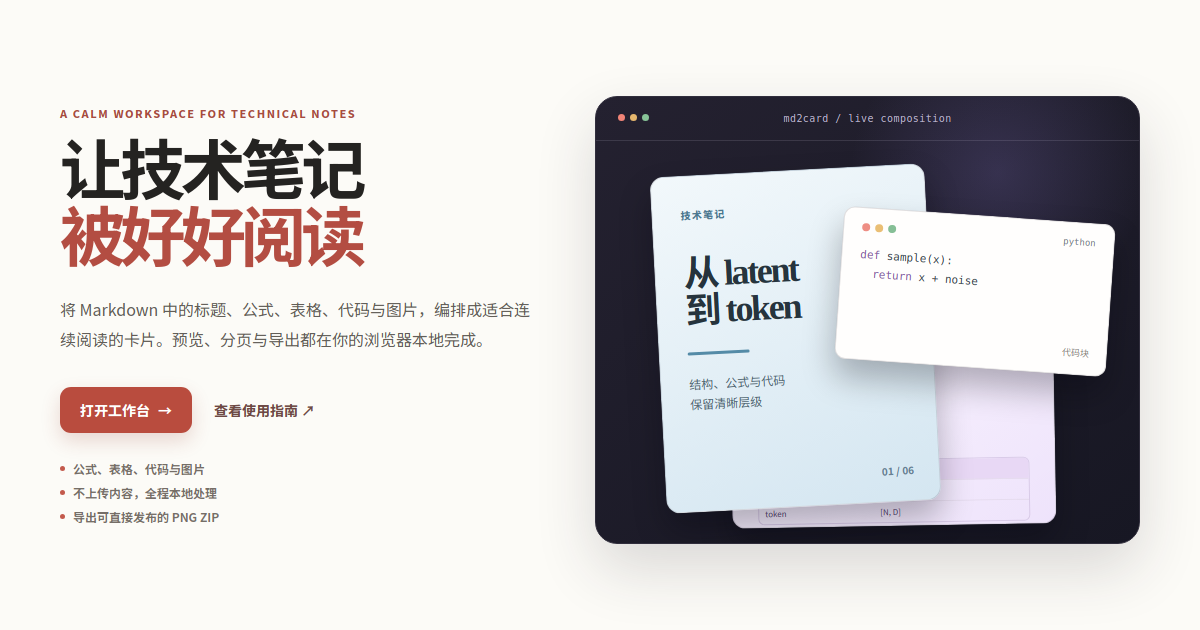
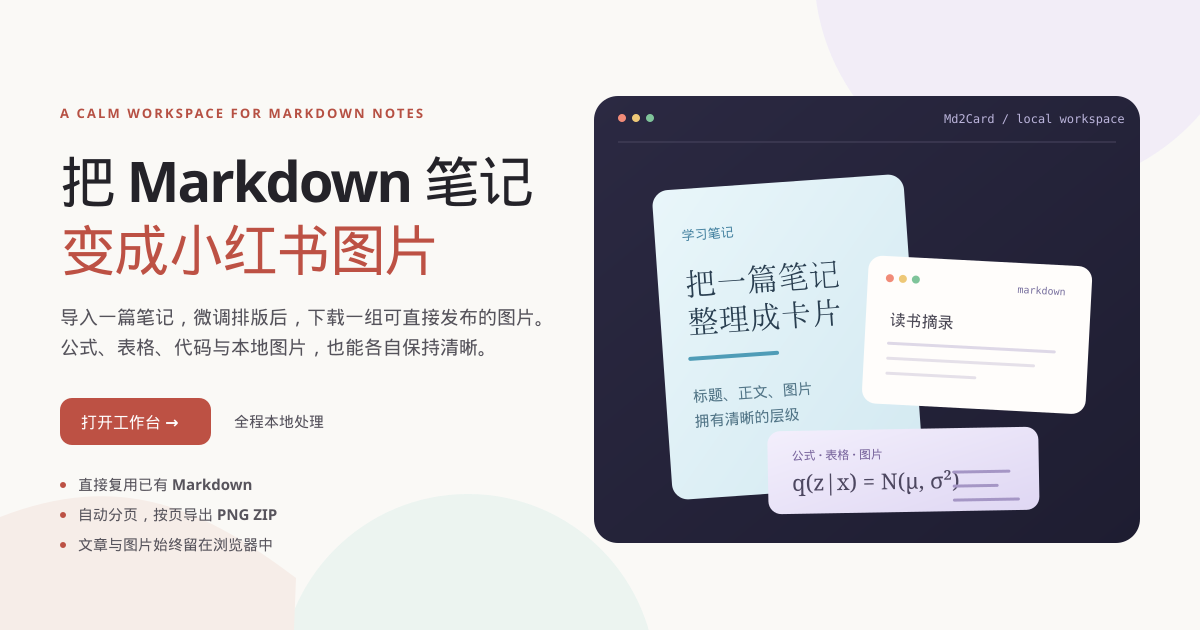
docs: align Md2Card with Xiaohongshu sharing

diff --git a/index.html b/index.html
@@ -12,32 +12,32 @@
     </script>
     <meta
       name="description"
-      content="Md2Card 是纯前端 Markdown 图片卡片工具：在浏览器本地处理公式、表格、代码和图片，实时预览后下载 PNG ZIP。"
+      content="Md2Card 是纯前端 Markdown 转小红书图片工具：将日常笔记在浏览器本地排版、预览并导出 PNG ZIP。"
     />
     <meta name="robots" content="index, follow" />
     <link rel="canonical" href="https://haodongcui.github.io/md2card/" />
     <meta property="og:type" content="website" />
     <meta property="og:locale" content="zh_CN" />
     <meta property="og:site_name" content="Md2Card" />
-    <meta property="og:title" content="Md2Card · Markdown 转图片卡片" />
+    <meta property="og:title" content="Md2Card · Markdown 转小红书图片" />
     <meta
       property="og:description"
-      content="公式、表格、代码、本地图片，全部在浏览器中完成排版与 PNG ZIP 导出。"
+      content="将日常 Markdown 笔记整理为可直接发布的小红书图片；全程在浏览器本地完成。"
     />
     <meta property="og:url" content="https://haodongcui.github.io/md2card/" />
-    <meta property="og:image" content="https://haodongcui.github.io/md2card/og-cover.png" />
+    <meta property="og:image" content="https://haodongcui.github.io/md2card/og-cover.png?v=2" />
     <meta property="og:image:width" content="1200" />
     <meta property="og:image:height" content="630" />
-    <meta property="og:image:alt" content="Md2Card 将技术 Markdown 转为图片卡片" />
+    <meta property="og:image:alt" content="Md2Card 将 Markdown 笔记转为小红书图片卡片" />
     <meta name="twitter:card" content="summary_large_image" />
-    <meta name="twitter:title" content="Md2Card · Markdown 转图片卡片" />
+    <meta name="twitter:title" content="Md2Card · Markdown 转小红书图片" />
     <meta
       name="twitter:description"
-      content="在浏览器本地将技术 Markdown 排版为图片卡片并导出 PNG ZIP。"
+      content="在浏览器本地将 Markdown 笔记排版为小红书图片并导出 PNG ZIP。"
     />
-    <meta name="twitter:image" content="https://haodongcui.github.io/md2card/og-cover.png" />
+    <meta name="twitter:image" content="https://haodongcui.github.io/md2card/og-cover.png?v=2" />
     <link rel="icon" href="./favicon.svg" type="image/svg+xml" />
-    <title>Md2Card · Markdown 转图片卡片</title>
+    <title>Md2Card · Markdown 转小红书图片</title>
   </head>
   <body>
     <a class="skip-link" href="#main-content">跳到主要内容</a>
@@ -69,27 +69,27 @@
     <main id="main-content">
       <section class="hero-section">
         <div class="hero-copy">
-          <p class="site-eyebrow">A CALM WORKSPACE FOR TECHNICAL NOTES</p>
-          <h1>让技术笔记<br /><span>被好好阅读</span></h1>
+          <p class="site-eyebrow">A CALM WORKSPACE FOR MARKDOWN NOTES</p>
+          <h1>把 Markdown 笔记<br /><span>变成小红书图片</span></h1>
           <p class="hero-lead">
-            将 Markdown 中的标题、公式、表格、代码与图片，编排成适合连续阅读的卡片。预览、分页与导出都在你的浏览器本地完成。
+            把平时写好的学习笔记、读书摘录、课程总结或知识整理，编排成适合连续阅读的卡片。预览、分页与导出都在你的浏览器本地完成。
           </p>
           <div class="hero-actions">
             <a class="site-button" href="./app/">打开工作台 <span aria-hidden="true">→</span></a>
             <a class="site-text-link" href="#details">了解处理细节 <span aria-hidden="true">↓</span></a>
           </div>
           <ul class="hero-proof" aria-label="产品特点">
-            <li>公式、表格、代码与图片</li>
+            <li>直接复用已有 Markdown</li>
             <li>不上传内容，全程本地处理</li>
             <li>导出可直接发布的 PNG ZIP</li>
           </ul>
         </div>
         <div class="hero-art" aria-hidden="true">
           <article class="showcase-card showcase-card-primary">
-            <span class="showcase-kicker">技术笔记</span>
+            <span class="showcase-kicker">Markdown 笔记</span>
             <strong>从 latent<br />到 token</strong>
             <i></i>
-            <p>结构、公式与代码<br />保留清晰层级</p>
+            <p>标题、图片与公式<br />保留清晰层级</p>
             <small>01 / 06</small>
           </article>
           <article class="showcase-card showcase-card-code">
@@ -110,20 +110,20 @@
       <section class="trust-strip" aria-label="核心承诺">
         <p><strong>本地完成</strong><span>文章与图片始终留在浏览器中</span></p>
         <p><strong>所见即所得</strong><span>预览、测量与导出共用同一套版式</span></p>
-        <p><strong>为技术内容而设</strong><span>从长公式到宽表格都有合适的收纳方式</span></p>
+        <p><strong>为 Markdown 笔记而设</strong><span>从普通段落到长公式都有合适的收纳方式</span></p>
       </section>
 
       <section id="features" class="content-section feature-section">
         <div class="section-heading">
-          <p class="site-eyebrow">BUILT FOR TECHNICAL NOTES</p>
-          <h2>不是把文章切碎，而是重新组织它的阅读节奏</h2>
-          <p>每一种内容都有相应的排版规则；你可以从默认版式开始，也能在需要时细调。</p>
+          <p class="site-eyebrow">BUILT FOR MARKDOWN NOTES</p>
+          <h2>不必为了分享，再把笔记重新排一遍</h2>
+          <p>已有的 Markdown 可以直接复用；不同内容各有合适的排版规则，也可以在需要时细调。</p>
         </div>
         <div class="feature-grid">
           <article class="feature-card feature-card-blue">
             <span class="feature-icon">∑</span>
-            <h3>内容不被降级</h3>
-            <p>标题、列表、KaTeX 公式、GFM 表格、代码与引用各自渲染；过高的技术块会续页，而不是被悄悄裁掉。</p>
+            <h3>原有格式不必重做</h3>
+            <p>标题、列表、公式、表格、代码、引用和图片各自渲染；内容过高时会续页，而不是被悄悄裁掉。</p>
           </article>
           <article class="feature-card feature-card-lilac">
             <span class="feature-icon">&lt;/&gt;</span>
@@ -133,7 +133,7 @@
           <article class="feature-card feature-card-green">
             <span class="feature-icon">▧</span>
             <h3>成品由你决定</h3>
-            <p>画布比例、主题、封面、密度、标题与技术块均可调整。确认预览后，直接下载标准或高清 PNG ZIP。</p>
+            <p>画布比例、主题、封面、密度、标题与复杂内容均可调整。确认预览后，直接下载标准或高清 PNG ZIP。</p>
           </article>
         </div>
       </section>
@@ -141,7 +141,7 @@
       <section class="content-section workflow-section">
         <div class="section-heading">
           <p class="site-eyebrow">THREE STEPS</p>
-          <h2>从一篇笔记，到一组可以发布的卡片</h2>
+          <h2>从一篇 Markdown 笔记，到一组可发布的小红书图片</h2>
         </div>
         <ol class="workflow-list">
           <li>
@@ -177,7 +177,7 @@
         <div class="section-heading">
           <p class="site-eyebrow">THE DETAILS THAT MATTER</p>
           <h2>难处理的部分，也应该有明确的处理方式</h2>
-          <p>Md2Card 不把“导入、分页、导出”当成黑箱。下面是它为技术 Markdown 做出的具体取舍。</p>
+          <p>Md2Card 不把“导入、分页、导出”当成黑箱。下面是它为 Markdown 笔记做出的具体取舍。</p>
         </div>
         <div class="detail-grid">
           <article class="detail-card detail-card-wide">
@@ -196,7 +196,7 @@
             <p>页面根据真实 DOM 高度测量。标题会带着必要的上下文移动；表格按行续页并重复表头，代码按行续页，图片与图注保持完整。</p>
           </article>
           <article class="detail-card">
-            <span class="detail-number">03 / 技术内容</span>
+            <span class="detail-number">03 / 复杂内容</span>
             <h3>宽表与长公式可单独调整</h3>
             <p>表格字号、公式缩放、代码字号不影响普通正文。H2、H3、H4 各自拥有页尾安全区，避免标题卡在页面底部。</p>
           </article>
@@ -224,14 +224,14 @@
         </div>
         <div class="home-faq-list">
           <details open><summary>为什么单独导入 .md 后还要选择图片所在文件夹？</summary><p>浏览器不能获得电脑上该文件的父目录权限。这是安全限制。选择一次文章根目录或 <code>assets</code> 后，应用才能按 Markdown 的路径补齐实际图片；它不会上传或导入无关文件。</p></details>
-          <details><summary>长公式或超宽表格显示拥挤怎么办？</summary><p>先在“技术块”中减小公式缩放或表格字号；仍然拥挤时，将公式改为多行或精简表格列。技术内容更多时可改用 2:3 技术长图。</p></details>
+          <details><summary>长公式或超宽表格显示拥挤怎么办？</summary><p>先在“内容”中减小公式缩放或表格字号；仍然拥挤时，将公式改为多行或精简表格列。内容较多时可改用 2:3 长内容画布。</p></details>
           <details><summary>哪些浏览器最适合导出？</summary><p>推荐最新版桌面 Chrome 或 Edge。手机可编辑和预览，但高清长文导出受设备内存影响更大；远程图片需要图片来源允许浏览器读取，才能稳定导出。</p></details>
         </div>
       </section>
 
       <section class="cta-section">
         <p class="site-eyebrow">READY WHEN YOU ARE</p>
-        <h2>从下一篇技术笔记开始，给读者更好的阅读体验</h2>
+        <h2>从下一篇 Markdown 笔记开始，直接分享你的内容</h2>
         <p>所有内容都留在当前浏览器。打开工作台，直接开始。</p>
         <a class="site-button" href="./app/">进入 Markdown 工作台 <span aria-hidden="true">→</span></a>
       </section>
@@ -239,7 +239,7 @@
 
     <footer class="site-footer">
       <a class="site-brand" href="./" aria-label="Md2Card 首页"><span class="site-brand-mark" aria-hidden="true">M</span><span>Md2Card</span></a>
-      <p>技术 Markdown 图片卡片生成器，全部在本地浏览器中完成。</p>
+      <p>Markdown 转小红书图片工具，全部在本地浏览器中完成。</p>
       <div><a href="#details">使用细节</a><a href="https://github.com/haodongcui/md2card" target="_blank" rel="noreferrer">GitHub</a></div>
     </footer>
     <script type="application/ld+json">
@@ -248,13 +248,13 @@
         "@type": "WebApplication",
         "name": "Md2Card",
         "url": "https://haodongcui.github.io/md2card/",
-        "description": "在浏览器本地将技术 Markdown 排版为小红书图片卡片，并导出 PNG ZIP。",
+        "description": "在浏览器本地将 Markdown 笔记排版为小红书图片卡片，并导出 PNG ZIP。",
         "applicationCategory": "UtilitiesApplication",
         "operatingSystem": "Web",
         "inLanguage": "zh-CN",
         "image": "https://haodongcui.github.io/md2card/og-cover.png",
         "offers": { "@type": "Offer", "price": "0", "priceCurrency": "CNY" },
-        "featureList": ["Markdown 解析", "KaTeX 公式", "GFM 表格", "本地图片绑定", "浏览器端 PNG ZIP 导出"]
+        "featureList": ["Markdown 导入", "自动分页", "公式与表格", "本地图片自动匹配", "浏览器端 PNG ZIP 导出"]
       }
     </script>
     <script type="module" src="/src/landing/main.ts"></script>

diff --git a/src/app/components/settings/CanvasSettings.tsx b/src/app/components/settings/CanvasSettings.tsx
@@ -4,9 +4,9 @@ type UpdateConfig = <Key extends keyof LayoutConfig>(key: Key, value: LayoutConf
 
 export function CanvasSettings({ config, articleName, onConfigChange, onEditArticle }: { config: LayoutConfig; articleName: string; onConfigChange: UpdateConfig; onEditArticle: () => void }) {
   return <section class="settings-category-content">
-    <h3>画布</h3><h4>画布比例</h4><div class="segmented"><button class={config.ratio === "3:4" ? "selected" : ""} onClick={() => onConfigChange("ratio", "3:4")}>3:4<br /><small>标准卡片</small></button><button class={config.ratio === "2:3" ? "selected" : ""} onClick={() => onConfigChange("ratio", "2:3")}>2:3<br /><small>技术长图</small></button></div>
+    <h3>画布</h3><h4>画布比例</h4><div class="segmented"><button class={config.ratio === "3:4" ? "selected" : ""} onClick={() => onConfigChange("ratio", "3:4")}>3:4<br /><small>标准卡片</small></button><button class={config.ratio === "2:3" ? "selected" : ""} onClick={() => onConfigChange("ratio", "2:3")}>2:3<br /><small>长内容</small></button></div>
     <h4>首卡封面</h4><p class="field-help">融合首页只在第一张卡片展示文章名；标题区域会参与分页，后续卡片不会重复显示。</p><div class="segmented cover-mode-control"><button type="button" class={config.coverMode === "integrated" ? "selected" : ""} onClick={() => onConfigChange("coverMode", "integrated")}>融合首页<br /><small>推荐</small></button><button type="button" class={config.coverMode === "standalone" ? "selected" : ""} onClick={() => onConfigChange("coverMode", "standalone")}>独立封面</button><button type="button" class={config.coverMode === "none" ? "selected" : ""} onClick={() => onConfigChange("coverMode", "none")}>无封面</button></div>
-    {config.coverMode !== "none" && <><p class="cover-title-source">封面标题：<strong title={articleName}>{articleName}</strong><button type="button" onClick={onEditArticle}>到编辑区修改</button></p><div class="cover-copy-fields"><label class="text-field">封面标签（可选）<input value={config.coverKicker} placeholder="例如：技术笔记" onInput={(event) => onConfigChange("coverKicker", event.currentTarget.value)} /></label><label class="text-field">副标题（可选）<input value={config.coverSubtitle} placeholder="一句话说明文章内容" onInput={(event) => onConfigChange("coverSubtitle", event.currentTarget.value)} /></label></div></>}
+    {config.coverMode !== "none" && <><p class="cover-title-source">封面标题：<strong title={articleName}>{articleName}</strong><button type="button" onClick={onEditArticle}>到编辑区修改</button></p><div class="cover-copy-fields"><label class="text-field">封面标签（可选）<input value={config.coverKicker} placeholder="例如：学习笔记" onInput={(event) => onConfigChange("coverKicker", event.currentTarget.value)} /></label><label class="text-field">副标题（可选）<input value={config.coverSubtitle} placeholder="一句话说明文章内容" onInput={(event) => onConfigChange("coverSubtitle", event.currentTarget.value)} /></label></div></>}
     <h4>画布留白</h4><div class="setting-control-grid"><label class="range-label">左右安全边距 <output>{config.cardHorizontalPadding}px</output><input type="range" min="60" max="92" step="2" value={config.cardHorizontalPadding} onInput={(event) => onConfigChange("cardHorizontalPadding", Number(event.currentTarget.value))} /></label><label class="range-label">上下安全留白 <output>{config.cardVerticalPadding}px</output><input type="range" min="50" max="88" step="2" value={config.cardVerticalPadding} onInput={(event) => onConfigChange("cardVerticalPadding", Number(event.currentTarget.value))} /></label></div>
     <h4>页码</h4><label class="check-label"><input type="checkbox" checked={config.showPageNumber} onChange={(event) => onConfigChange("showPageNumber", event.currentTarget.checked)} /> 显示右下角页码</label>
   </section>;

diff --git a/src/data/starter-markdown.ts b/src/data/starter-markdown.ts
@@ -7,15 +7,15 @@ const TICK = '`';
  * integration example, while this article demonstrates the rest of the card
  * system in a few immediately readable pages.
  */
-export const STARTER_MARKDOWN = String.raw`# Md2Card：让技术 Markdown 成为可发布的图片卡片
+export const STARTER_MARKDOWN = String.raw`# Md2Card：把 Markdown 笔记变成小红书图片
 
 > **纯前端、本地处理、预览即导出。** 这是一篇首次打开工作台就能完整阅读的产品演示：不需要上传文件，也不需要先授予图片目录权限。
 
-Md2Card 面向包含公式、表格、代码和多级标题的技术笔记。它不把文章机械截断，而是根据真实卡片尺寸重新组织阅读节奏；右侧预览看到的内容，就是之后导出的 PNG。
+Md2Card 适合日常 Markdown 笔记：学习总结、读书摘录、课程笔记、技术文章或知识整理都可以直接导入。它不把文章机械截断，而是根据真实卡片尺寸重新组织阅读节奏；右侧预览看到的内容，就是之后导出的 PNG。
 
 ## 01 · 从一篇 Markdown 开始
 
-你可以直接替换左侧内容、粘贴自己的笔记，或导入单篇 ${TICK}.md${TICK} 文件。默认的 **3:4 标准卡片 + 技术平衡密度 + 融合首卡** 已适合多数技术文章；遇到特殊内容时，再进入排版设置细调。
+你可以直接替换左侧内容、粘贴自己的笔记，或导入单篇 ${TICK}.md${TICK} 文件。默认的 **3:4 标准卡片 + 平衡密度 + 融合首卡** 已适合多数笔记；遇到特殊内容时，再进入排版设置细调。
 
 1. 输入或导入 Markdown；
 2. 先检查右侧自动分页；
@@ -26,13 +26,13 @@ Md2Card 面向包含公式、表格、代码和多级标题的技术笔记。它
 | --- | --- | --- |
 | 普通正文 | 保持稳定字号与阅读宽度 | 字号、行距、段间距 |
 | 标题层级 | 避免孤立停在页尾 | H2 / H3 / H4 安全区与段前距 |
-| 技术内容 | 不连带缩小整页正文 | 表格字号、公式缩放、代码字号 |
+| 复杂内容 | 不连带缩小整页正文 | 表格字号、公式缩放、代码字号 |
 
 <!-- md2card:break -->
 
 ## 02 · 公式应当自然融入叙述
 
-技术笔记里，中文说明、English terms、${TICK}inline_code()${TICK} 与行内公式常常同时出现。例如信噪比可以写作 $\mathrm{SNR}=10\log_{10}(P_s/P_n)$，而不应迫使整段文字为一条公式让步。
+有些 Markdown 笔记会同时出现中文说明、English terms、${TICK}inline_code()${TICK} 与行内公式。例如信噪比可以写作 $\mathrm{SNR}=10\log_{10}(P_s/P_n)$，而不应迫使整段文字为一条公式让步。
 
 对于独立公式，Md2Card 使用 KaTeX 渲染，并允许单独缩放：
 
@@ -45,7 +45,7 @@ x_t &= \sqrt{\bar\alpha_t}\,x_0 + \sqrt{1-\bar\alpha_t}\,\epsilon,\\
 \end{aligned}
 $$
 
-> 排版原则：公式太长时，先调整公式缩放或将表达式拆为多行；不要为了容纳一条技术内容而缩小普通正文。
+> 排版原则：公式太长时，先调整公式缩放或将表达式拆为多行；不要为了容纳一条复杂内容而缩小普通正文。
 
 <!-- md2card:break -->
 

diff --git a/src/app/components/WorkspaceHeader.tsx b/src/app/components/WorkspaceHeader.tsx
@@ -42,7 +42,7 @@ export function WorkspaceHeader({
         <a class="brand" href="../" aria-label="返回 Md2Card 首页">
           <span class="brand-mark">M</span>
           <span>Md2Card</span>
-          <small>技术 Markdown 卡片</small>
+          <small>Markdown 转小红书图片</small>
         </a>
         <nav class="workspace-site-nav" aria-label="站点导航">
           <a class="workspace-home-link" href="../">首页</a>

diff --git a/README.md b/README.md
@@ -1,36 +1,47 @@
 # Md2Card
 
-> 面向技术内容的纯前端 Markdown 图片卡片生成器。将公式、表格、代码和本地图片编排成可连续阅读、可直接发布的 PNG 卡片。
+> 将日常 Markdown 文档一键整理为适合发布到小红书的连续图片卡片。
+>
+> 粘贴或导入一篇 Markdown，在线预览、微调排版后，下载 PNG 图片包，直接发布。
 
-[在线使用](https://haodongcui.github.io/md2card/) · [打开工作台](https://haodongcui.github.io/md2card/app/) · [查看完整样例](./examples/Md2Card%20Example.md)
+[在线使用](https://haodongcui.github.io/md2card/) · [备用站点](https://md2card.cuihd.com/) · [打开工作台](https://haodongcui.github.io/md2card/app/) · [查看完整样例](./examples/Md2Card%20Example.md)
 
-![Md2Card 产品预览](./public/og-cover.png)
+![Md2Card 产品预览](./public/og-cover.png?v=2)
 
-**Md2Card** 适合将技术 Markdown 制作成小红书、知识笔记或长图卡片。它没有账号、没有后端、不会上传文章：解析、图片绑定、真实分页、预览、PNG 生成和 ZIP 下载均在当前浏览器完成。
+**Md2Card** 是一个纯前端的 Markdown 转小红书图片工具。它适合把平时写好的学习笔记、读书摘录、课程总结、技术文章、科研记录或知识整理，快速转成一组可连续阅读、可直接发布的图片。
 
-## 核心能力
+它没有账号、没有后端、不会上传文章：Markdown 解析、本地图片按引用自动匹配、自动分页、实时预览、PNG 生成和 ZIP 下载均在当前浏览器完成。
+
+## 为什么不用重新排版一遍？
+
+- 直接复用已经写好的 Markdown，不必复制到另一套排版工具；
+- 自动分页并统一字体、间距和阅读节奏，避免靠截图拼成长图；
+- 可选择主题、封面、画布比例和阅读密度，按内容微调；
+- 导出逐页 PNG 并打包为 ZIP，可按顺序直接发布到小红书。
+
+## 公式、表格、代码和图片也能正常排版
 
 | 关注点 | Md2Card 的处理方式 |
 | --- | --- |
 | 内容安全 | 没有上传接口；GitHub Pages 只托管静态网页，文章与图片留在本地浏览器 |
-| 技术内容 | KaTeX 公式、GFM 表格、代码与图片各自拥有合适的缩放、续页和样式规则 |
+| 复杂内容 | KaTeX 公式、GFM 表格、代码与图片各自拥有合适的缩放、续页和样式规则 |
 | 本地图片 | 按 Markdown 相对路径定位，只读取当前文章实际引用的图片，不导入无关附件 |
 | 真实分页 | 使用与预览一致的 DOM 高度测量，不按字数或行数估算 |
 | 所见即所得 | 预览、导出前检查和 PNG 导出共用同一份页面计划与卡片 DOM |
 | 可交付导出 | 标准发布或高清原图逐页生成 PNG，并打包为 ZIP 下载 |
 
-## 立即开始
+## 三步生成小红书图片
 
 ### 在线工作台
 
-打开 [Md2Card 工作台](https://haodongcui.github.io/md2card/app/)，直接粘贴 Markdown 或导入一篇本地文件。
+打开 [Md2Card 工作台](https://haodongcui.github.io/md2card/app/)，粘贴或导入一篇 Markdown 笔记，把它整理成一组可直接发布的小红书图片。
 
 1. 输入、拖放或导入单篇 `.md` / `.markdown` / `.txt`；
 2. 在右侧检查自动分页后的卡片；
 3. 在“主题 / 画布 / 排版 / 内容”中按需细调；
 4. 点击右上角“下载图片”，通过检查后下载 PNG ZIP。
 
-默认的 **3:4 + 技术平衡 + 融合首卡** 适合大多数技术笔记。遇到长公式或宽表格时，优先在“内容”分类调整对应项目，无需连带缩小普通正文。
+默认的 **3:4 画布、平衡密度与融合首卡** 已适合大多数笔记。遇到长公式或宽表格时，优先在“内容”分类调整对应项目，无需连带缩小普通正文。
 
 ### 导入完整样例
 
@@ -85,7 +96,7 @@ npm run preview
 
 ### 阅读与排版
 
-- [x] 3:4 标准卡片与 2:3 技术长图。
+- [x] 3:4 标准卡片与 2:3 长内容画布。
 - [x] 融合首卡、独立封面与无封面三种首卡策略。
 - [x] 纯净排版、雾蓝实验室、柔光浅紫、雾松笔记四套完整主题。
 - [x] 舒展、技术平衡、紧凑三种密度预设，以及主题、画布、排版、内容四类细调。
@@ -161,7 +172,7 @@ Markdown 只保存路径，例如：
 | 图注与表注 | 图片 / 表格后紧随 `图 1：说明` 或 `表 1：说明` 时，会自动归入前一个内容块并与其同页 |
 | 分隔线 | `---` |
 
-为保证导出安全与一致，原始 HTML 会被忽略。内联图片、复杂 HTML 混排、脚注和 Mermaid 暂不属于稳定支持范围；复杂宽表和极长公式建议优先拆分内容或使用 2:3 技术长图。
+为保证导出安全与一致，原始 HTML 会被忽略。内联图片、复杂 HTML 混排、脚注和 Mermaid 暂不属于稳定支持范围；复杂宽表和极长公式建议优先拆分内容或使用 2:3 长内容画布。
 
 ## 隐私与浏览器支持
 

diff --git a/examples/Md2Card Example.md b/examples/Md2Card Example.md
@@ -1,6 +1,6 @@
 # Md2Card 排版展示
 
-这是一份面向技术内容的 Markdown 卡片样张。它把标题、正文、公式、表格、图片和代码放进同一条阅读路径，用于展示一篇笔记在连续图片卡片中的层级、节奏与留白。
+这是一份用于展示复杂 Markdown 排版效果的卡片样张。它把标题、正文、公式、表格、图片和代码放进同一条阅读路径，用于展示一篇笔记在连续图片卡片中的层级、节奏与留白。
 
 ## 标题、正文与行内元素
 
@@ -57,7 +57,7 @@ $$
 
 表 1：紧随表格的表注会自动与表格组成同一个阅读单元，不会单独落到下一张卡片。
 
-![技术内容的层级关系](./images/architecture.svg "图 1 · 标题、正文、公式、图表与代码共同组织成一篇易于阅读的技术内容")
+![内容的层级关系](./images/architecture.svg "图 1 · 标题、正文、公式、图表与代码共同组织成一篇易于阅读的 Markdown 笔记")
 
 图片和图注构成一个完整单元。它们可以在安全区内独立缩放，不会迫使前后的正文一起变窄或变小。
 
@@ -99,4 +99,4 @@ const card = {
 
 ![宽幅注意力矩阵示意](./images/wide-matrix.svg "图 3 · 宽图承载结构性信息，独立适配卡片宽度，并与前后文本保持自然间距")
 
-一篇技术内容不必为了适应图片而牺牲文字，也不必为了塞进单张卡片而把公式和表格缩得难以阅读。让不同类型的信息各自拥有合适的尺寸，再由稳定的分页把它们串成连续的阅读体验，这就是这份样张想呈现的效果。
+一篇 Markdown 笔记不必为了适应图片而牺牲文字，也不必为了塞进单张卡片而把公式和表格缩得难以阅读。让不同类型的信息各自拥有合适的尺寸，再由稳定的分页把它们串成连续的阅读体验，这就是这份样张想呈现的效果。

diff --git a/examples/README.md b/examples/README.md
@@ -1,6 +1,6 @@
 # 示例文章
 
-这是一篇可以直接导入 Md2Card 的完整技术短文。它以扩散模型为线索，让标题、正文、图片、公式、表格与代码自然穿插，适合用来感受连续卡片的阅读节奏。
+这是一篇可以直接导入 Md2Card 的完整 Markdown 排版样例。它以扩散模型为线索，让标题、正文、图片、公式、表格与代码自然穿插，适合用来感受连续卡片的阅读节奏。
 
 工作台首次打开时也有一份不含本地图片的演示稿；本目录的文章则附带三张 SVG 插图，适合体验本地图片的自动匹配与图文排版。
 
@@ -8,8 +8,8 @@
 
 | 文件 | 用途 |
 | --- | --- |
-| [`Md2Card Example.md`](./Md2Card%20Example.md) | 一篇带图片、公式、表格、代码、列表与分页的可读技术短文 |
-| `images/architecture.svg` | 技术笔记的结构关系插图 |
+| [`Md2Card Example.md`](./Md2Card%20Example.md) | 一篇带图片、公式、表格、代码、列表与分页的完整 Markdown 样例 |
+| `images/architecture.svg` | Markdown 笔记的结构关系插图 |
 | `images/sampling-pipeline.svg` | 从采样到去噪的流程插图 |
 | `images/wide-matrix.svg` | 宽幅注意力矩阵示意图 |
 
